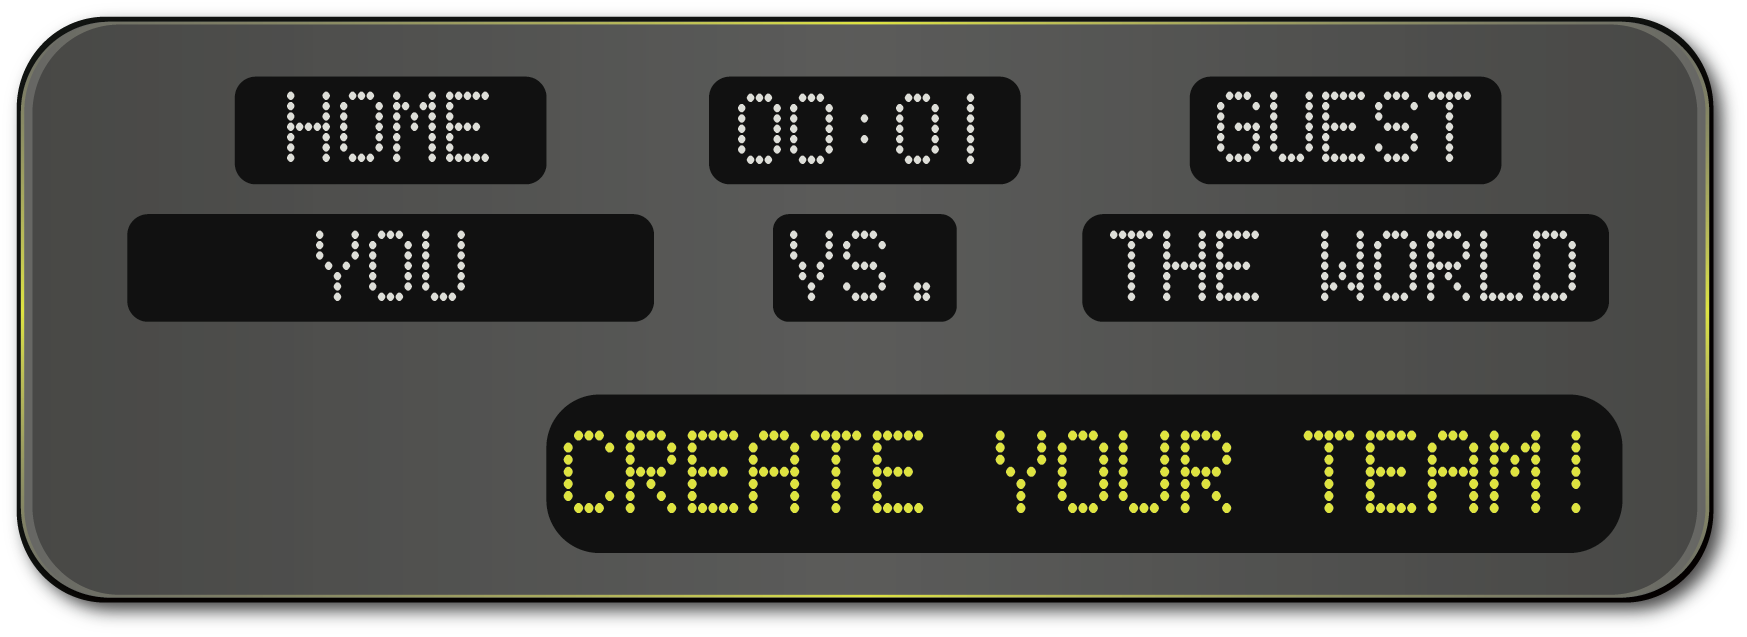
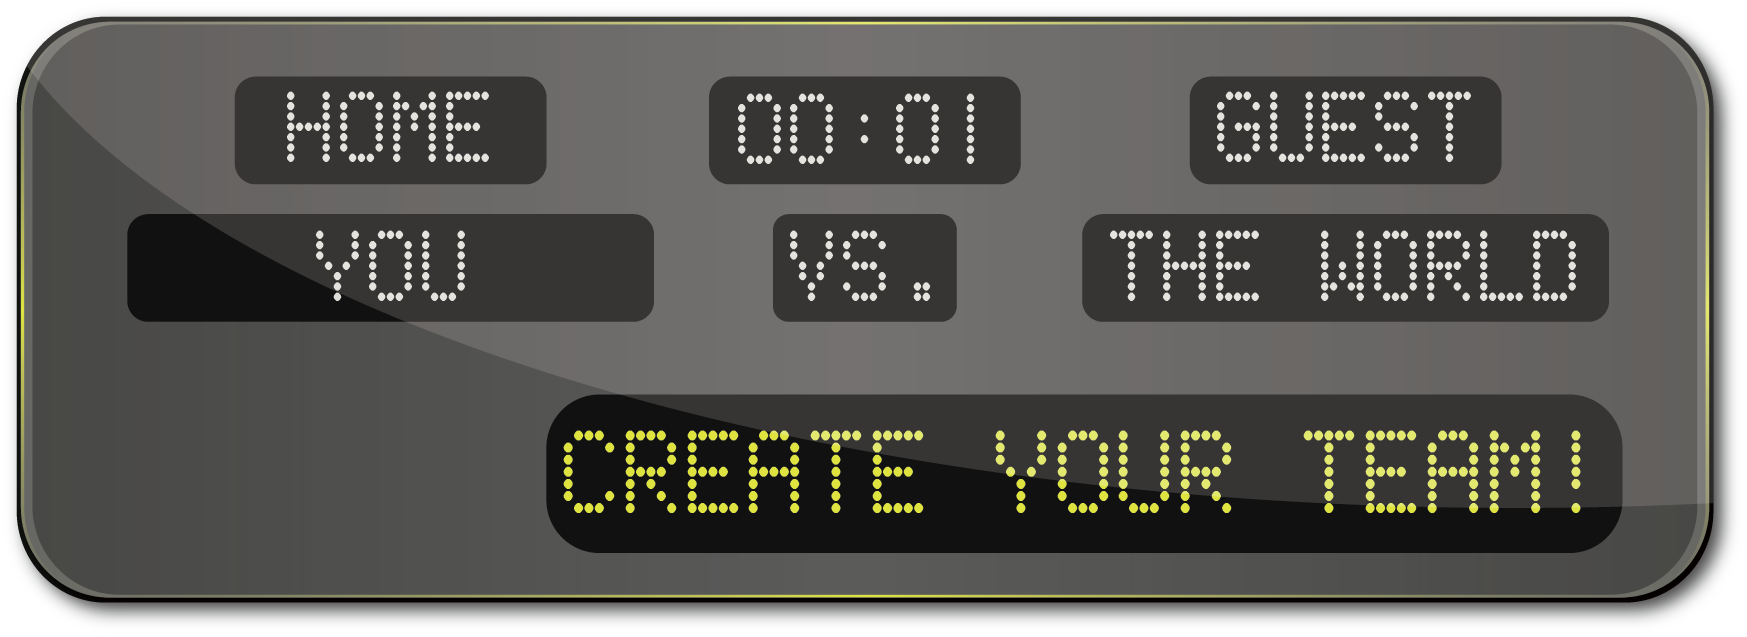
Fixed brandlogo to display more largely on the home page | Updated the CTA image with a 'shine' to look more like a button

diff --git a/goodapp/index-right.html b/goodapp/index-right.html
@@ -19,6 +19,9 @@
         <div data-role="header" data-theme="a" data-position="fixed">
             <h1>Pickup League</h1>
         </div>
+	<div data-role="content">
+            <img id="brandlogohome" src="images/leaguelogo.png" />
+	</div>
         <div id="CTA">
             <a href="additem-right.html" id="ctalink">
                 <img id="ctaimg" src="images/CTA.png">
@@ -98,6 +101,11 @@
             <h1>Dayton Ballers</h1>
         </div>
 	<div data-role="content">
+	    <a href="index-right.html">
+                <img id="brandlogo" src="images/leaguelogo.png" />
+	    </a>
+	</div>
+	<div data-role="content">
 	    <p>Team Size: 3</p>
 	    <p>Only Evening Games: No</p>
 	    <p>Next available date: 2011-11-01</p>
@@ -108,6 +116,11 @@
         <div data-role="header" data-theme="a" data-position="fixed">
             <h1>Charity</h1>
         </div>
+	<div data-role="content">
+	    <a href="index-right.html">
+                <img id="brandlogo" src="images/leaguelogo.png" />
+	    </a>
+	</div>
 	<div data-role="content">
             <p>Team Size: 2</p>
     	    <p>Only Evening Games: No</p>
@@ -120,6 +133,11 @@
             <h1>20-somethings</h1>
         </div>
 	<div data-role="content">
+	    <a href="index-right.html">
+                <img id="brandlogo" src="images/leaguelogo.png" />
+	    </a>
+	</div>
+	<div data-role="content">
 	    <p>Team Size: 5</p>
 	    <p>Only Evening Games: Yes</p>
 	    <p>Next available date: 2011-11-03</p>
@@ -130,6 +148,11 @@
         <div data-role="header" data-theme="a" data-position="fixed">
             <h1>Half-court dunkers</h1>
         </div>
+	<div data-role="content">
+	    <a href="index-right.html">
+                <img id="brandlogo" src="images/leaguelogo.png" />
+	    </a>
+	</div>
 	<div data-role="content">
 	    <p>Team Size: 3</p>
 	    <p>Only Evening Games: Yes</p>
@@ -142,6 +165,11 @@
             <h1>Winter Madmen</h1>
         </div>
 	<div data-role="content">
+	    <a href="index-right.html">
+                <img id="brandlogo" src="images/leaguelogo.png" />
+	    </a>
+	</div>
+	<div data-role="content">
 	    <p>Team Size: 6</p>
 	    <p>Only Evening Games: Yes</p>
 	    <p>Next available date: 2011-11-05</p>
@@ -152,6 +180,11 @@
         <div data-role="header" data-theme="a" data-position="fixed">
             <h1>Real-life fantasy football</h1>
         </div>
+	<div data-role="content">
+	    <a href="index-right.html">
+                <img id="brandlogo" src="images/leaguelogo.png" />
+	    </a>
+	</div>
 	<div data-role="content">
 	    <p>Team Size: 8</p>
 	    <p>Only Evening Games: No</p>
@@ -164,6 +197,11 @@
             <h1>Seattle Seachickens</h1>
         </div>
 	<div data-role="content">
+	    <a href="index-right.html">
+                <img id="brandlogo" src="images/leaguelogo.png" />
+	    </a>
+	</div>
+	<div data-role="content">
 	    <p>Team Size: 4</p>
 	    <p>Only Evening Games: No</p>
 	    <p>Next available date: 2011-11-07</p>
@@ -174,6 +212,11 @@
         <div data-role="header" data-theme="a">
             <h1>50-yard heroes</h1>
         </div>
+	<div data-role="content">
+	    <a href="index-right.html">
+                <img id="brandlogo" src="images/leaguelogo.png" />
+	    </a>
+	</div>
 	<div data-role="content">
 	    <p>Team Size: 2</p>
 	    <p>Only Evening Games: No</p>
@@ -186,6 +229,11 @@
             <h1>Cutthroat</h1>
         </div>
 	<div data-role="content">
+	    <a href="index-right.html">
+                <img id="brandlogo" src="images/leaguelogo.png" />
+	    </a>
+	</div>
+	<div data-role="content">
 	    <p>Team Size: 3</p>
 	    <p>Only Evening Games: NYes</p>
 	    <p>Next available date: 2011-11-09</p>
@@ -196,6 +244,11 @@
         <div data-role="header" data-theme="a">
             <h1>Base gym ladder match</h1>
         </div>
+	<div data-role="content">
+	    <a href="index-right.html">
+                <img id="brandlogo" src="images/leaguelogo.png" />
+	    </a>
+	</div>
 	<div data-role="content">
 	    <p>Team Size: 1</p>
 	    <p>Only Evening Games: Yes</p>
@@ -208,6 +261,11 @@
             <h1>Doubles champs</h1>
         </div>
 	<div data-role="content">
+	    <a href="index-right.html">
+                <img id="brandlogo" src="images/leaguelogo.png" />
+	    </a>
+	</div>
+	<div data-role="content">
 	    <p>Team Size: 2</p>
 	    <p>Only Evening Games: No</p>
 	    <p>Next available date: 2011-11-11</p>
@@ -218,6 +276,11 @@
         <div data-role="header" data-theme="a">
             <h1>Ladder climber</h1>
         </div>
+	<div data-role="content">
+	    <a href="index-right.html">
+                <img id="brandlogo" src="images/leaguelogo.png" />
+	    </a>
+	</div>
 	<div data-role="content">
 	    <p>Team Size: 1</p>
 	    <p>Only Evening Games: Yes</p>
@@ -230,6 +293,11 @@
             <h1>Weekend warriors</h1>
         </div>
 	<div data-role="content">
+	    <a href="index-right.html">
+                <img id="brandlogo" src="images/leaguelogo.png" />
+	    </a>
+	</div>
+	<div data-role="content">
 	    <p>Team Size: 6</p>
 	    <p>Only Evening Games: Yes</p>
 	    <p>Next available date: 2011-11-13</p>
@@ -240,6 +308,11 @@
         <div data-role="header" data-theme="a">
             <h1>Monterey world cup champs</h1>
         </div>
+	<div data-role="content">
+	    <a href="index-right.html">
+                <img id="brandlogo" src="images/leaguelogo.png" />
+	    </a>
+	</div>
 	<div data-role="content">
 	    <p>Team Size: 2</p>
 	    <p>Only Evening Games: No</p>
@@ -252,6 +325,11 @@
             <h1>Winning Ten</h1>
         </div>
 	<div data-role="content">
+	    <a href="index-right.html">
+                <img id="brandlogo" src="images/leaguelogo.png" />
+	    </a>
+	</div>
+	<div data-role="content">
 	    <p>Team Size: 10</p>
 	    <p>Only Evening Games: Yes</p>
 	    <p>Next available date: 2011-11-15</p>
@@ -262,6 +340,11 @@
         <div data-role="header" data-theme="a">
             <h1>Underdogs</h1>
         </div>
+	<div data-role="content">
+	    <a href="index-right.html">
+                <img id="brandlogo" src="images/leaguelogo.png" />
+	    </a>
+	</div>
 	<div data-role="content">
 	    <p>Team Size: 3</p>
 	    <p>Only Evening Games: Yes</p>
@@ -274,6 +357,11 @@
             <h1>Wimbledon Wanna-be</h1>
         </div>
 	<div data-role="content">
+	    <a href="index-right.html">
+                <img id="brandlogo" src="images/leaguelogo.png" />
+	    </a>
+	</div>
+	<div data-role="content">
 	    <p>Team Size: 1</p>
 	    <p>Only Evening Games: No</p>
 	    <p>Next available date: 2011-11-17</p>
@@ -284,6 +372,11 @@
         <div data-role="header" data-theme="a">
             <h1>Federer Fanbois</h1>
         </div>
+	<div data-role="content">
+	    <a href="index-right.html">
+                <img id="brandlogo" src="images/leaguelogo.png" />
+	    </a>
+	</div>
 	<div data-role="content">
 	    <p>Team Size: 2</p>
 	    <p>Only Evening Games: Yes</p>
@@ -296,6 +389,11 @@
             <h1>Couples Club</h1>
         </div>
 	<div data-role="content">
+	    <a href="index-right.html">
+                <img id="brandlogo" src="images/leaguelogo.png" />
+	    </a>
+	</div>
+	<div data-role="content">
 	    <p>Team Size: 2</p>
 	    <p>Only Evening Games: No</p>
 	    <p>Next available date: 2011-11-19</p>
@@ -306,6 +404,11 @@
         <div data-role="header" data-theme="a">
             <h1>Singles practice</h1>
         </div>
+	<div data-role="content">
+	    <a href="index-right.html">
+                <img id="brandlogo" src="images/leaguelogo.png" />
+	    </a>
+	</div>
 	<div data-role="content">
 	    <p>Team Size: 1</p>
 	    <p>Only Evening Games: No</p>

diff --git a/goodapp/additem-right.html b/goodapp/additem-right.html
@@ -31,10 +31,12 @@
             </div>
         </div>
 	-->
-	<div data-role="content">
-	    <a href="#landing">
-		<img src="images/leaguelogo.png" />
-	    </a>
+	<div data-role="fieldcontain">
+	    <div data-role="content">
+	        <a href="index-right.html">
+	            <img id="brandlogo" src="images/leaguelogo.png" />
+		</a>
+	    </div>
 	</div>
         <div data-role="content">
             <form action="" method="post" id="teamform">

diff --git a/goodapp/css/styles-right.css b/goodapp/css/styles-right.css
@@ -116,8 +116,16 @@ label.error{
 	  font-family: Helvetica /*{global-font-family}*/;
 	text-decoration: none;
 }
+img[id=brandlogohome]{
+	margin: 0px;
+	width: 100%;
+}
+img[id=brandlogo]{
+	margin: 0px 0px;
+	width: 60%;
+}
 img[id=ctaimg]{
-    margin: 20px 0;
+    margin: 10px 0 20px;
     width: 100%;
 }
 header h1:nth-child(1) {
